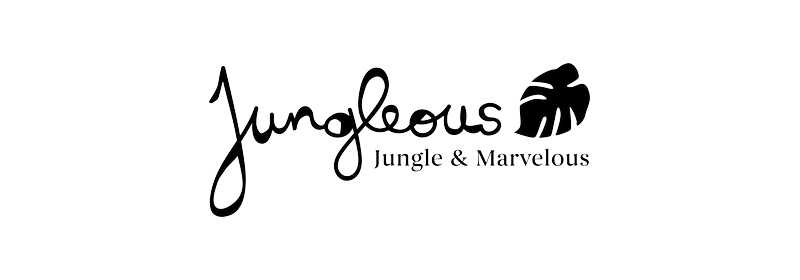
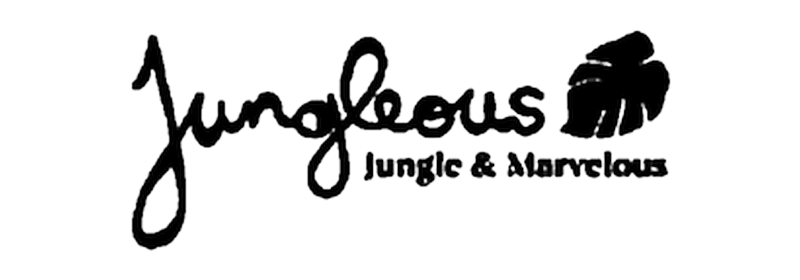
up

Changed region(s): [[0.1562, 0.1143, 0.8438, 0.8857]]

diff --git a/public/kruv.css b/public/kruv.css
@@ -1578,9 +1578,9 @@ body:has(.card:hover) .ticker {
 }
 .ideal-logo-2 { -webkit-mask-image: url("assets/clients/group-19.svg"); mask-image: url("assets/clients/group-19.svg"); }
 .ideal-logo-3 {
-  --ideal-logo-scale: 1.15;
-  -webkit-mask-image: url("assets/clients/jungleous.png");
-  mask-image: url("assets/clients/jungleous.png");
+  --ideal-logo-scale: 1.65;
+  -webkit-mask-image: url("assets/clients/jungleous.png?v=2");
+  mask-image: url("assets/clients/jungleous.png?v=2");
 }
 .ideal-logo-4 { -webkit-mask-image: url("assets/clients/asset-18.svg"); mask-image: url("assets/clients/asset-18.svg"); }
 .ideal-logo-5 {
@@ -1594,9 +1594,16 @@ body:has(.card:hover) .ticker {
   mask-image: url("assets/clients/gg-pizza.png");
 }
 .ideal-logo-7 {
-  --ideal-logo-scale: 1.4;
-  -webkit-mask-image: url("assets/clients/opera-hotel.png");
-  mask-image: url("assets/clients/opera-hotel.png");
+  /* Stacked wordmark — kutuyu maske oranına kilitle (ezilmesin) */
+  --ideal-logo-scale: 1.2;
+  width: calc(58% * var(--ideal-logo-scale));
+  height: auto;
+  aspect-ratio: 800 / 280;
+  max-height: 78%;
+  -webkit-mask-image: url("assets/clients/opera-hotel.png?v=2");
+  mask-image: url("assets/clients/opera-hotel.png?v=2");
+  -webkit-mask-size: contain;
+  mask-size: contain;
 }
 .ideal-logo-8 {
   --ideal-logo-scale: 1.25;
